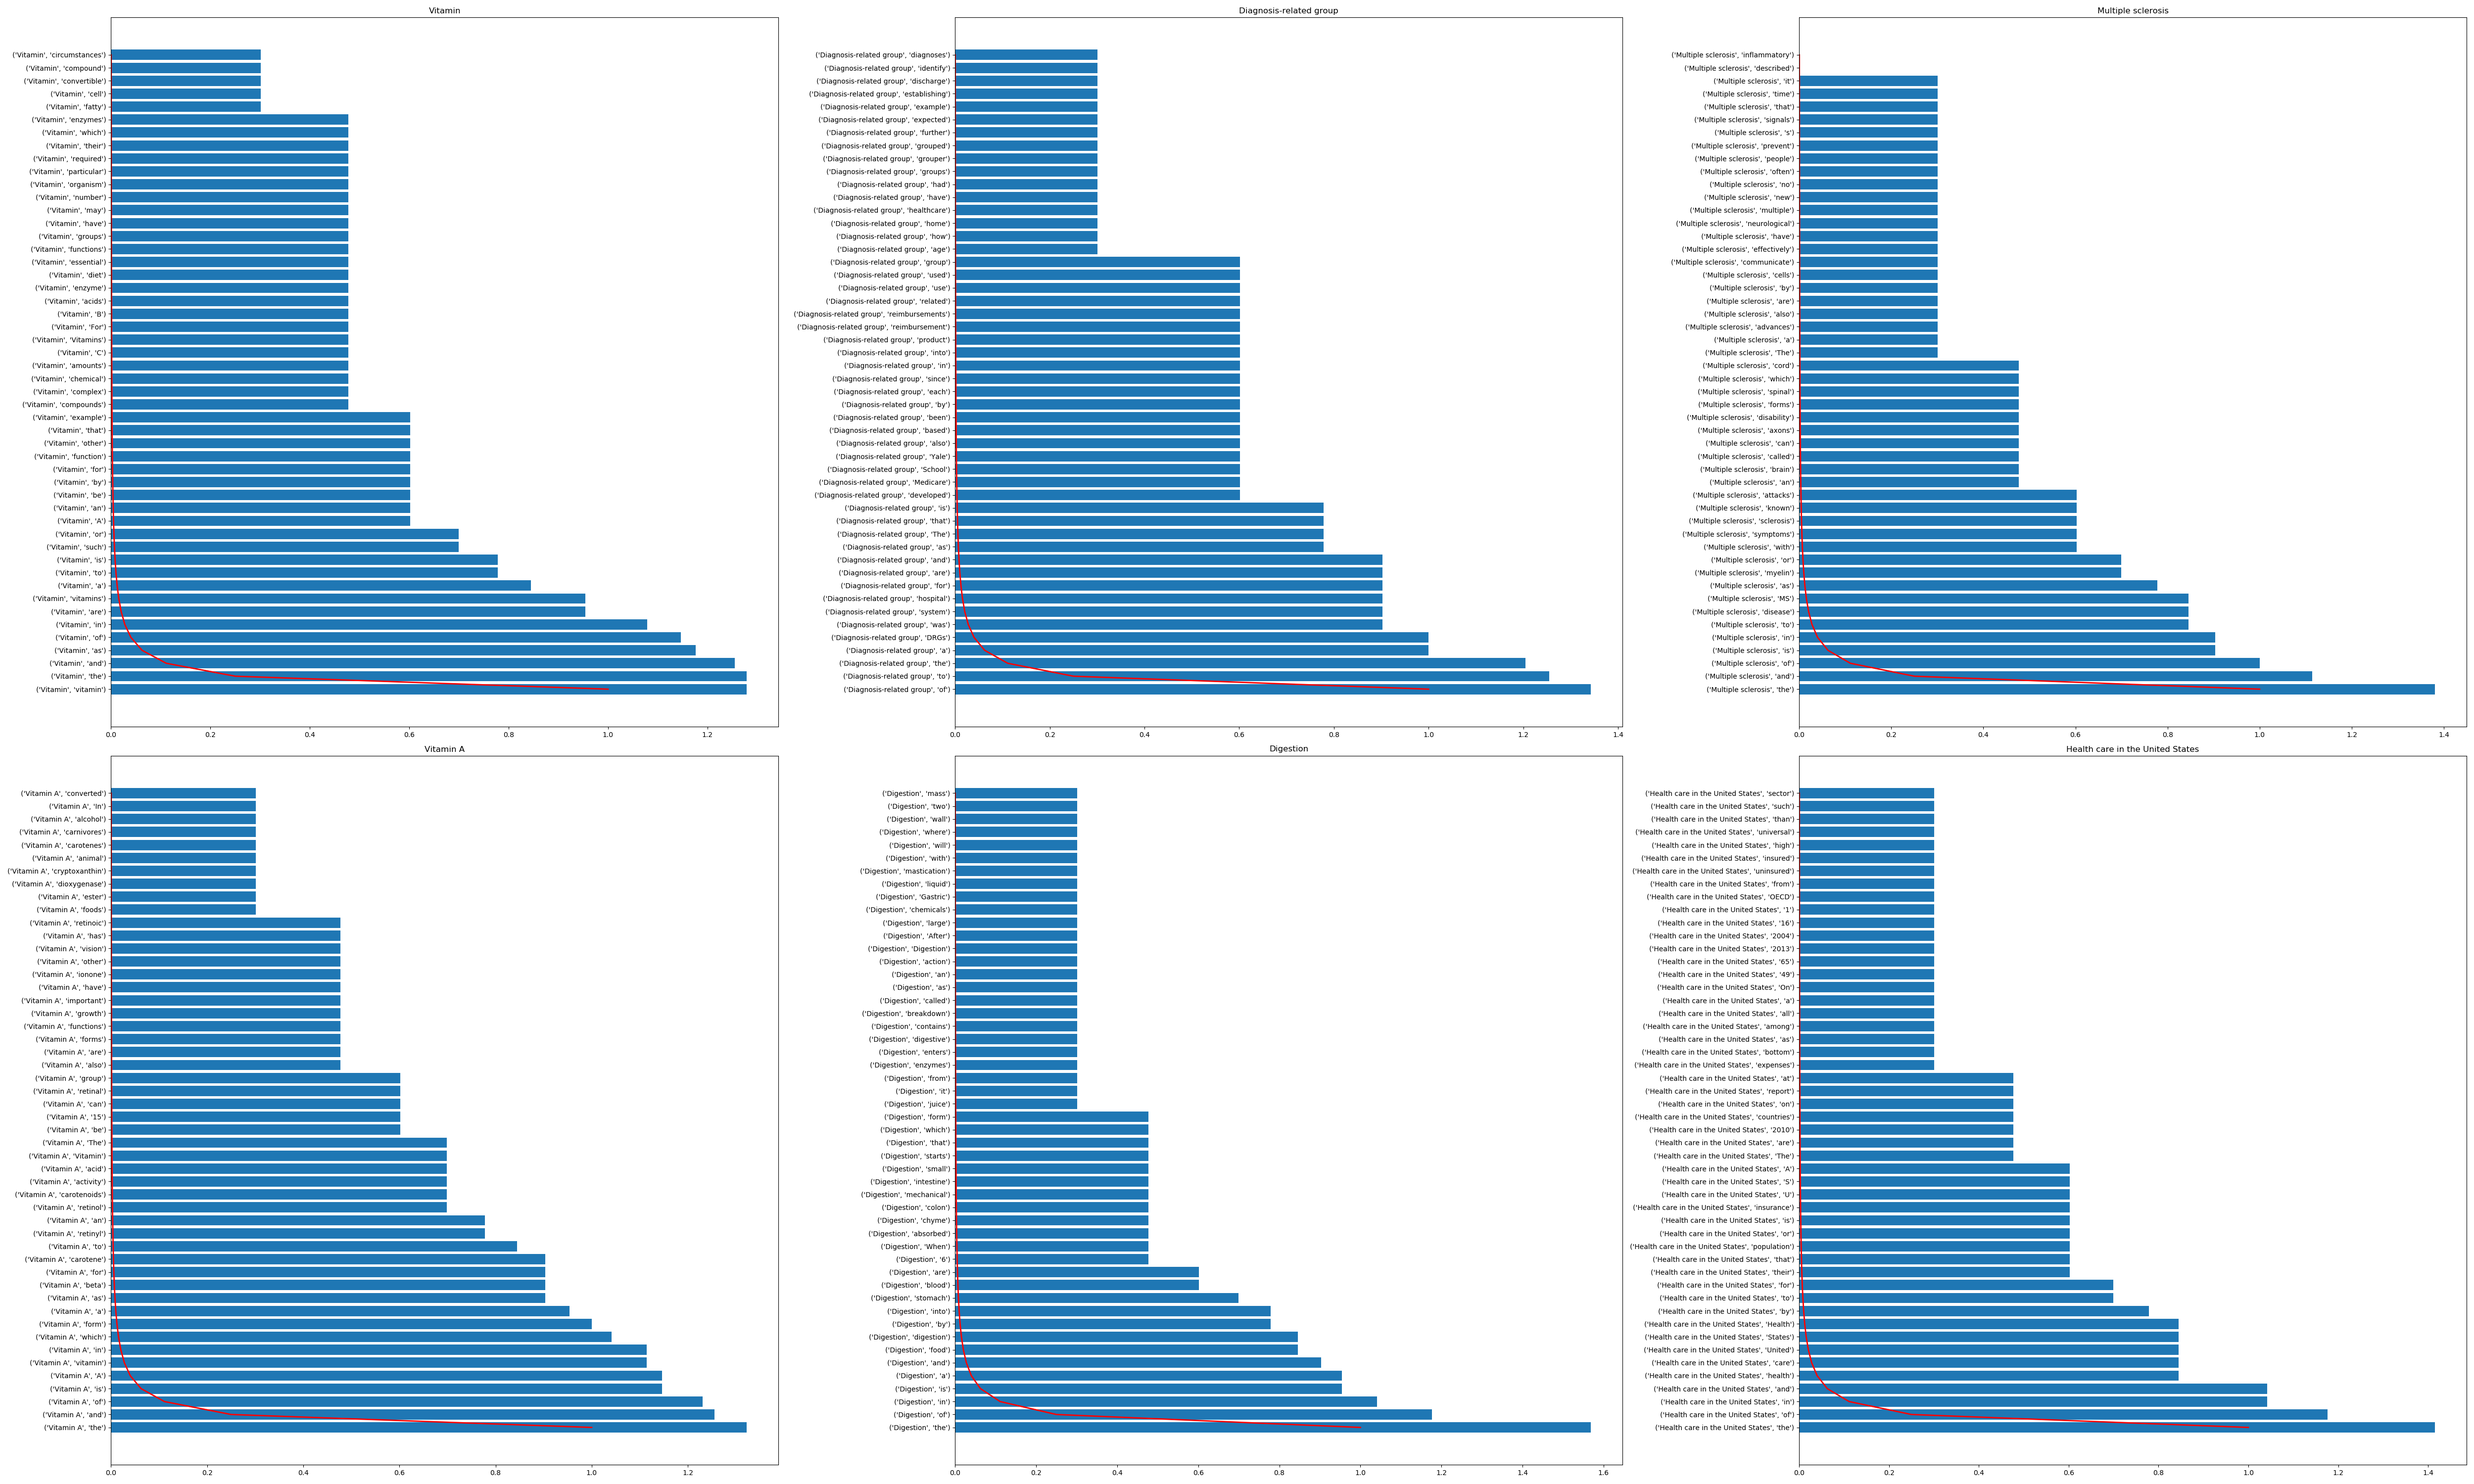
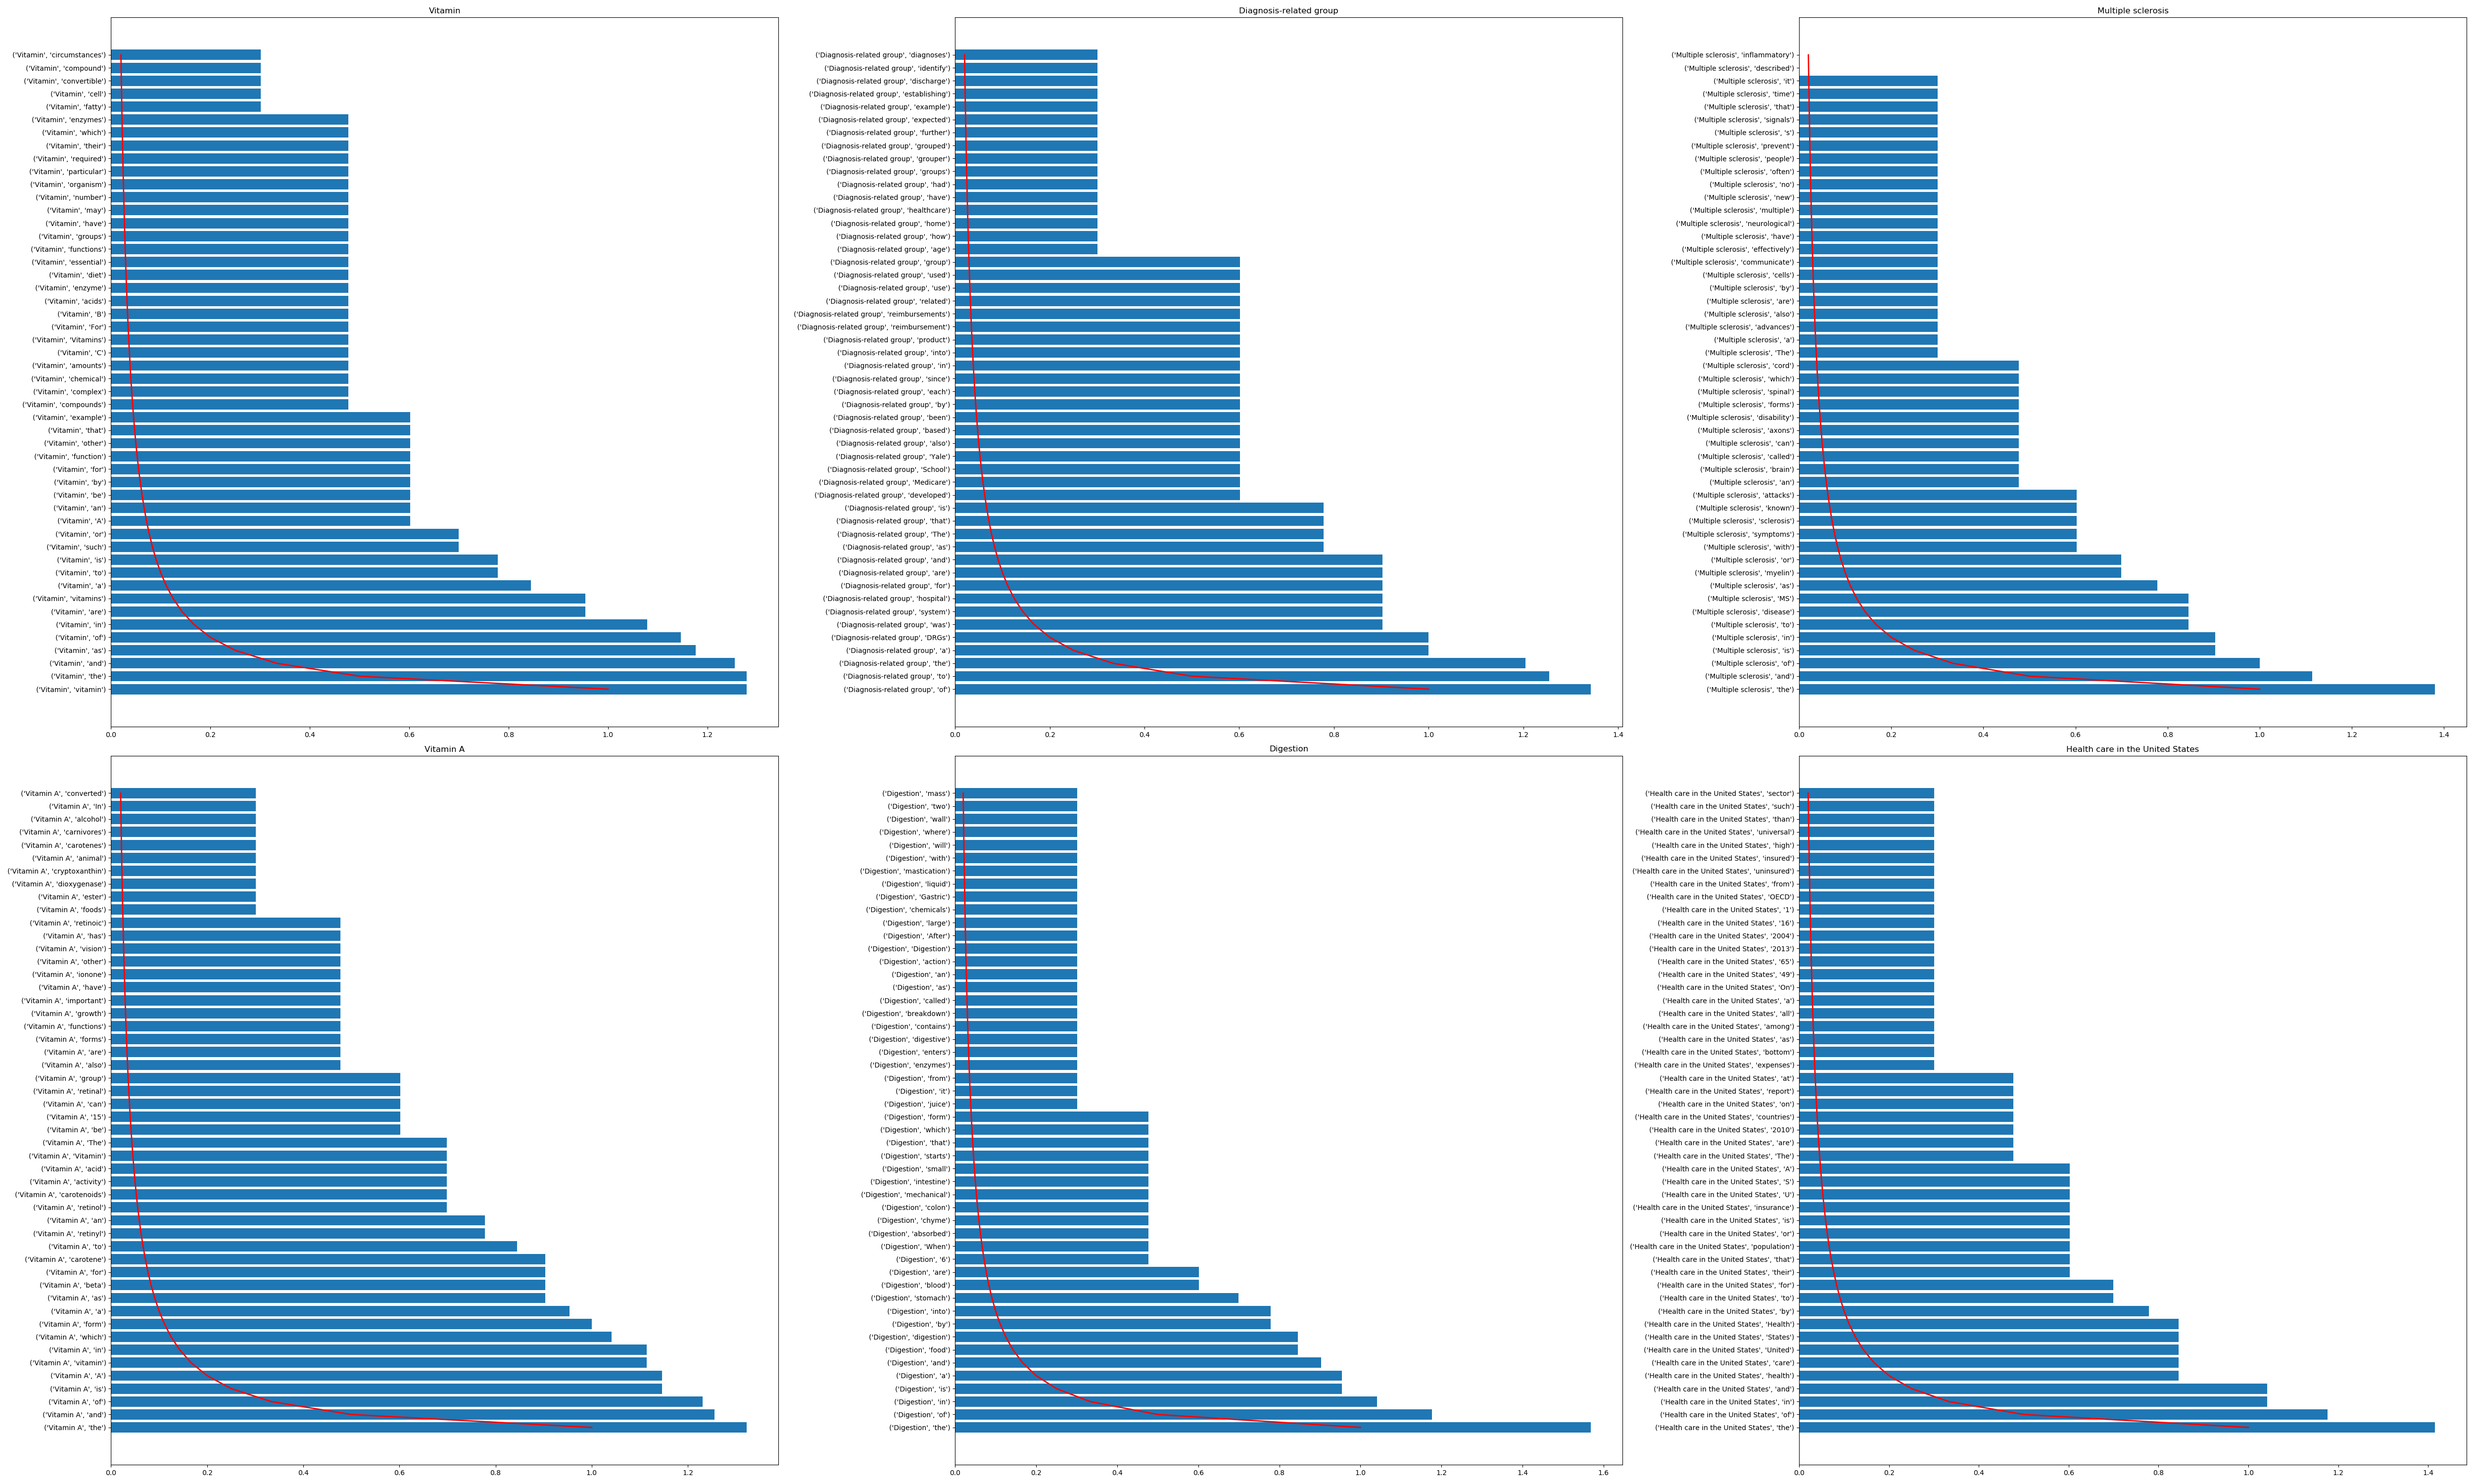
Changed the zipf's parameter

diff --git a/src/plotting.py b/src/plotting.py
@@ -121,7 +121,7 @@ def plot_zipf(series_arr, index_level=0, top_n=5, filepath=None, numrows=1, numc
             ax.set_yticklabels(r.index)
             ax.barh(range(len(r.index)), width=np.log10(r))
             #define zipf distribution parameter. Has to be >1
-            a = 2.
+            a = 1.0001
             end = len(r.index)
             new_x = np.array(range(1, end+1))
             y = (new_x)**(-a) / special.zetac(a)

diff --git a/README.md b/README.md
@@ -79,7 +79,7 @@ Here are the bar charts of the 6 categories...
 
 ![top 6](graphs/collaged_topn_no_stopwords.png)
 
-For extra data collection I ran the next 6 categories with the highest amount of answers through the plotting pipeline and produced the following graphs...
+For extra data collection I ran the next 6 categories with the highest amount of answers (Vitamin, Diagnosis-related group, Multiple sclerosis, Vitamin A, Digestion, Health care in the United States) through the plotting pipeline and produced the following graphs...
 
 ### With Stop Words Included
 
@@ -97,7 +97,7 @@ From Wikipedia:
 > Zipf's law is an empirical law formulated using mathematical statistics that refers to the fact that many types of data studied in the physical and social sciences can be approximated with a Zipfian distribution, one of a family of related discrete power law probability distributions. Zipf distribution is related to the zeta distribution, but is not identical... Thus the most frequent word will occur approximately twice as often as the second most frequent word, three times as often as the third most frequent word, etc.: the rank-frequency distribution is an inverse relation. For example, in the Brown Corpus of American English text, the word the is the most frequently occurring word, and by itself accounts for nearly 7% of all word occurrences (69,971 out of slightly over 1 million). True to Zipf's Law, the second-place word of accounts for slightly over 3.5% of words (36,411 occurrences), followed by and (28,852).
 
 
-To investigate this further I took the log10 of the word counts, this time of the top 50 words, and overlayed it with the zipf's distribution to see how it matched up. The results weren't disapointing. 
+To investigate this further I took the log base 10 of the word counts, this time of the top 50 words, and overlayed it with the zipf's distribution to see how it matched up. The results weren't disapointing. 
 
 ### With Stop Words Included
 
